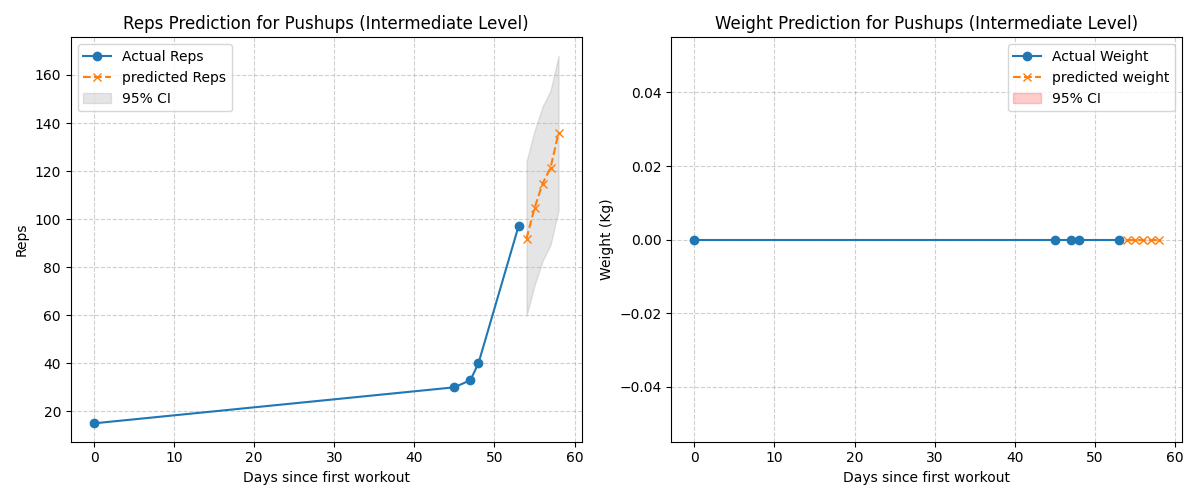
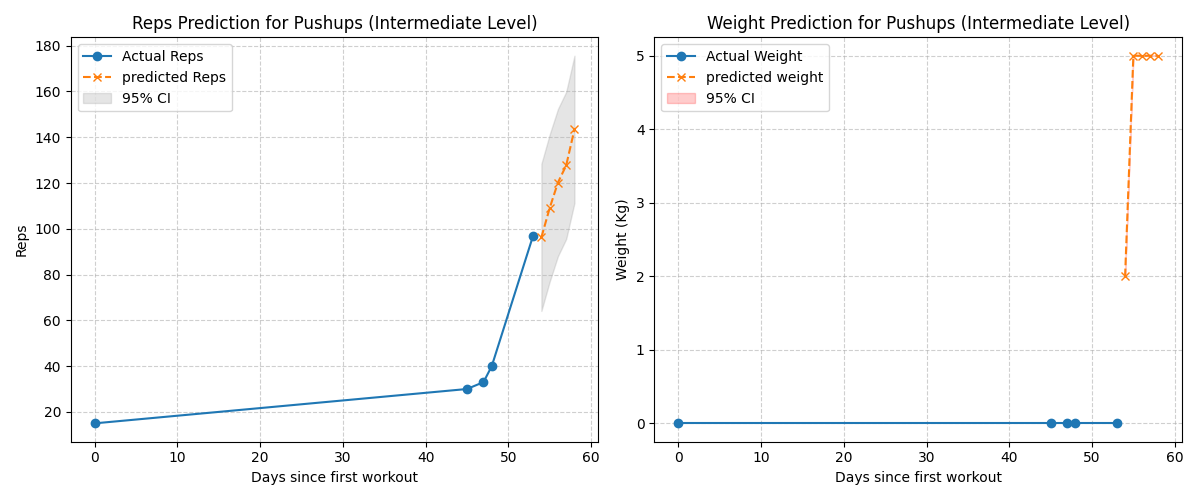
Just work with me here

diff --git a/predictor.py b/predictor.py
@@ -117,26 +117,26 @@ def predict_targets(dates, reps, weights, user_level="intermediate", degree=2):
         # I came up with rules that can accomodate for this style of training
         # First if weights  are low reps will also dip
         if future_weights[i] < max_weights * 0.5:
-            future_reps[i] -= 5
-            future_weights[i] += 2
+            future_reps[i] *= 0.90
+            future_weights[i] *= 1.05
         # If weights are high reps will aso increase
         if future_weights[i] > max_weights * 0.7:
-            future_reps[i] += 2
-            future_weights[i] -= 1
+            future_reps[i] *= 1.02
+            future_weights[i] *= 0.99
         # If reps are low weights will decrease
         if future_reps[i] < max_reps * 0.4:
-            future_weights[i] += 2
-            future_reps[i] += 1
+            future_weights[i] *= 1.03
+            future_reps[i] *= 1.01
         # If reps are high weights will increase
         if future_reps[i] > max_reps * 0.7:
-            future_weights[i] += 3
-            future_reps[i] -= 1
+            future_weights[i] *= 1.02
+            future_reps[i] *= 0.99
         # Fatigue Cycle : every 3rd prediction reps dip slightly
         if i % 3 == 0:
             future_reps[i] *= 0.97
         
-    min_reps = last_reps * 0.9
-    min_weights = last_weights * 0.9
+    min_reps = last_reps * 0.7
+    min_weights = last_weights * 0.7
     future_reps = np.clip(future_reps, min_reps, max_reps)
     future_weights = np.clip(future_weights, min_weights, max_weights)
   
